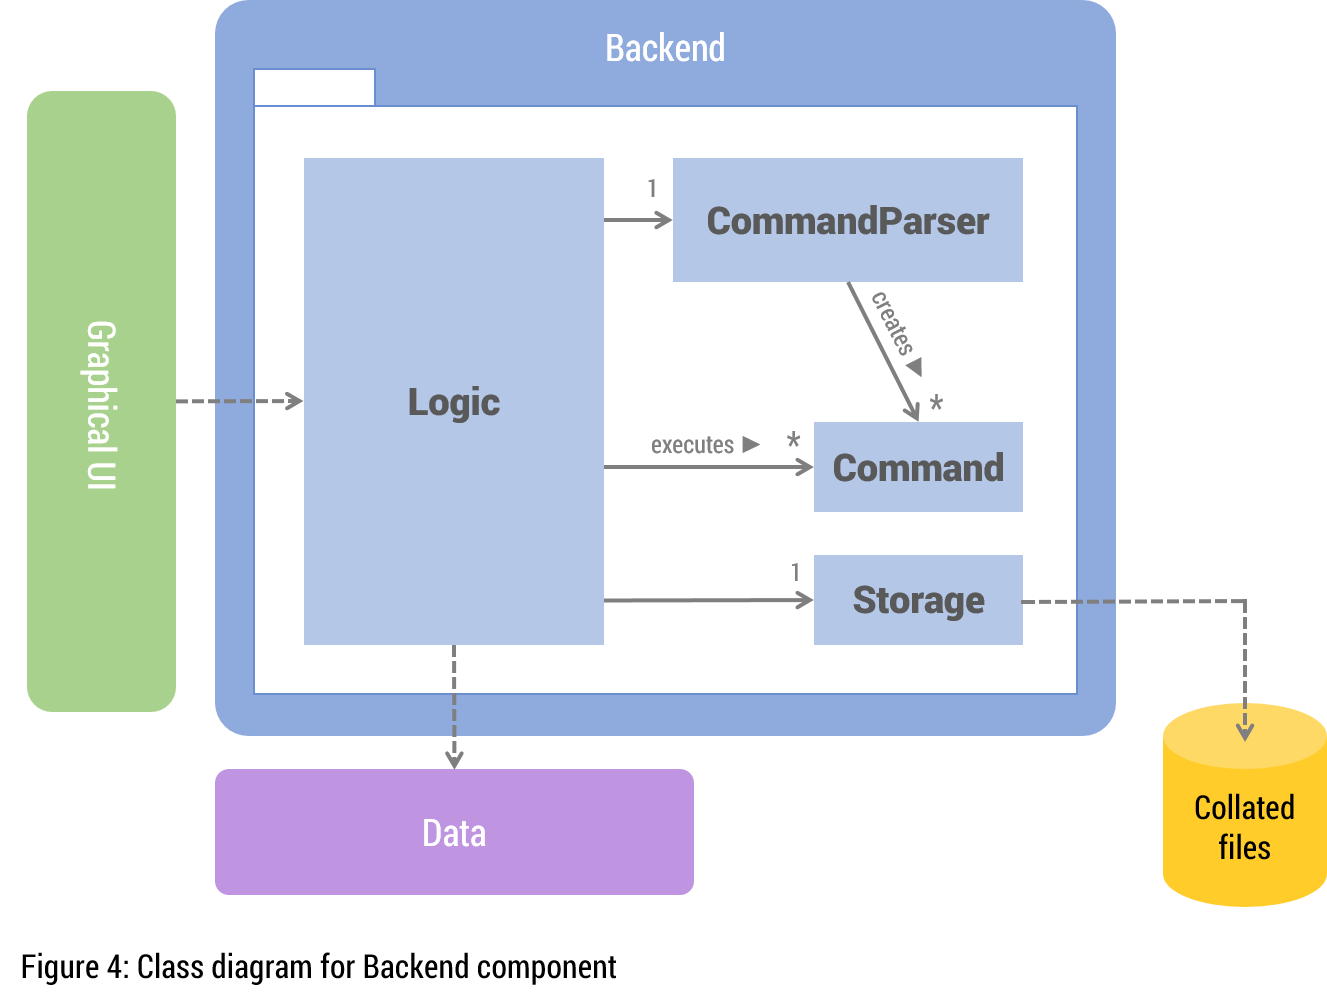
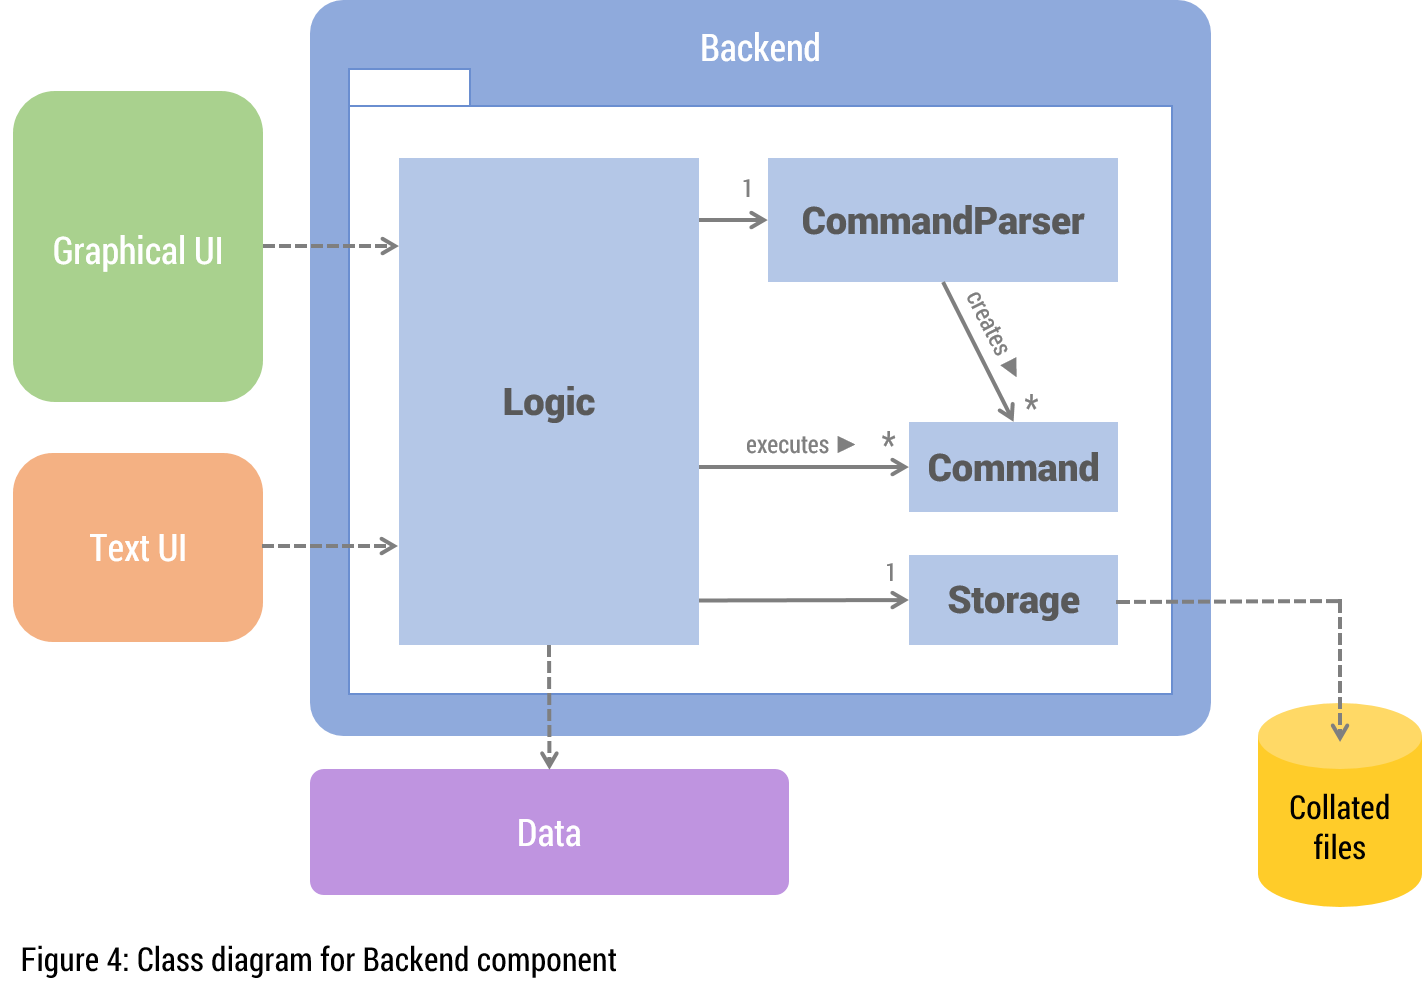
Updated dev guide for Backend component

diff --git a/docs/Developer-Guide.md b/docs/Developer-Guide.md
@@ -24,6 +24,7 @@ This guide describes the design and implementation of Collate. It will help you 
 	- [CodeSnippet Class](#codesnippet-class)
 	- [SourceFile Class](#sourcefile-class)
 - [Test Driver Component](#test-driver-component)
+
 <!-- /TOC -->
 
 # Architecture
@@ -141,10 +142,56 @@ This class also implements `Comparable` to enable sorting of `FileStatsItem` obj
 
 # Backend Component
 ![Class diagram for Backend](images/backend-class-diagram.png)
+The `Backend` component is made up of four classes. At the centre of this component is the `Logic` class which is in charge of handling the execution of user inputs from the `GUI` component. This component only relies on the `Data` component and works independently from the `GUI` and `TUI` components.
+
 ## Logic Class
+The `Logic` class contains the methods that form the functionality of Collate. It can be thought of as the "brain" of Collate. User inputs are passed to the `executeCommand(String)` method which parses the input to find out what type of command the input is. Finding the type of command is done in the `CommandParser` class which will be elaborated in the next section.
+
+After knowing the type of command, `Logic` executes the command and updates the its relevant fields before calling the `Storage` class to store the collated data if necessary. The data is stored in Markdown files. More details are mentioned in the `Storage` section.
+
+The `executeCommand(String)` method will then return the type of command to its caller method. The caller method can then decide how to update the user interface.
+
+This class provides several APIs for the user interface components (`GUI` and `TUI`) to obtain information and render them for the user.
+
+#### Notable APIs
+Return type | Method and Description
+----------- | ----------------------
+Command.Type | `executeCommand(String userInput)`: Handle the execution of user inputs
+Collection<Author> | `getAuthors()`: Get the authors of the project that has been collated.
+String | `getTargetAuthorName()`: Get the name of the target author that was specified in the user's `view` command.
+HashMap&lt;SourceFile, Integer&gt; | `getTargetAuthorStatistics()`: Get the statistics of the target author in the form of a `HashMap` with the keys as the `SourceFile` objects that the author contributed to and the values as the number of lines he/she wrote for that `SourceFile`.
+
 ## CommandParser Class
+The `CommandParser` class figures out what type of command has been entered by the user. It creates `Command` objects which are then passed to `Logic` to be executed.
+
+This class plays the important role of defining the fields in each `Command` object depending on the type of command. For example, if a user enters `view author1`, `CommandParser` creates a `Command` object that has its `authorName` initialised to "author1". These fields can then be accessed by `Logic` to execute the command properly.
+
+#### Notable APIs
+Return type | Method and Description
+----------- | ----------------------
+Command | `parse(String userInput)`: Analyses the given `userInput` to determine its type and returns a `Command` object with all the relevant fields initialised.
+
 ### Command Class
+This class is solely created by `CommandParser` and is executed by `Logic`. It is a simple Java class with several fields and corresponding public getters and setters.
+
+#### Notable getter APIs
+Return type | Method and Description
+----------- | ----------------------
+Type | `getCommandType()`: Returns the `Type` of command.
+String | `getDirectory()`: Returns the directory for `collate` commands.
+boolean | `willScanCurrentDirOnly()`: Returns the boolean that determines whether only the current folder should be scanned for source files.
+ArrayList&lt;String&gt; | `getFileTypes()`: Returns the list of types of files that are to be scanned.
+String | `getAuthorName()`: Returns the target author name from `view` commands.
+
 ## Storage Class
+`Storage` is a simple class that has one public method which takes in a list of lines and saves them to a local file in a default directory. This default directory is defined in this class.
+
+The current implementation saves collated data in Markdown files. These files are human-readable and editable, and utilises syntax from [Github Flavored Markdown](https://help.github.com/articles/github-flavored-markdown/).
+
+#### Notable APIs
+Return type | Method and Description
+----------- | ----------------------
+void | `addCollatedFile(String fileName, ArrayList<String> collatedLines)`: Saves the `collatedLines` in the default save directory with `fileName` as its name and `.md` as its extension.
 
 # Data Component
 ![Class diagram for Data](images/data-class-diagram.png)
